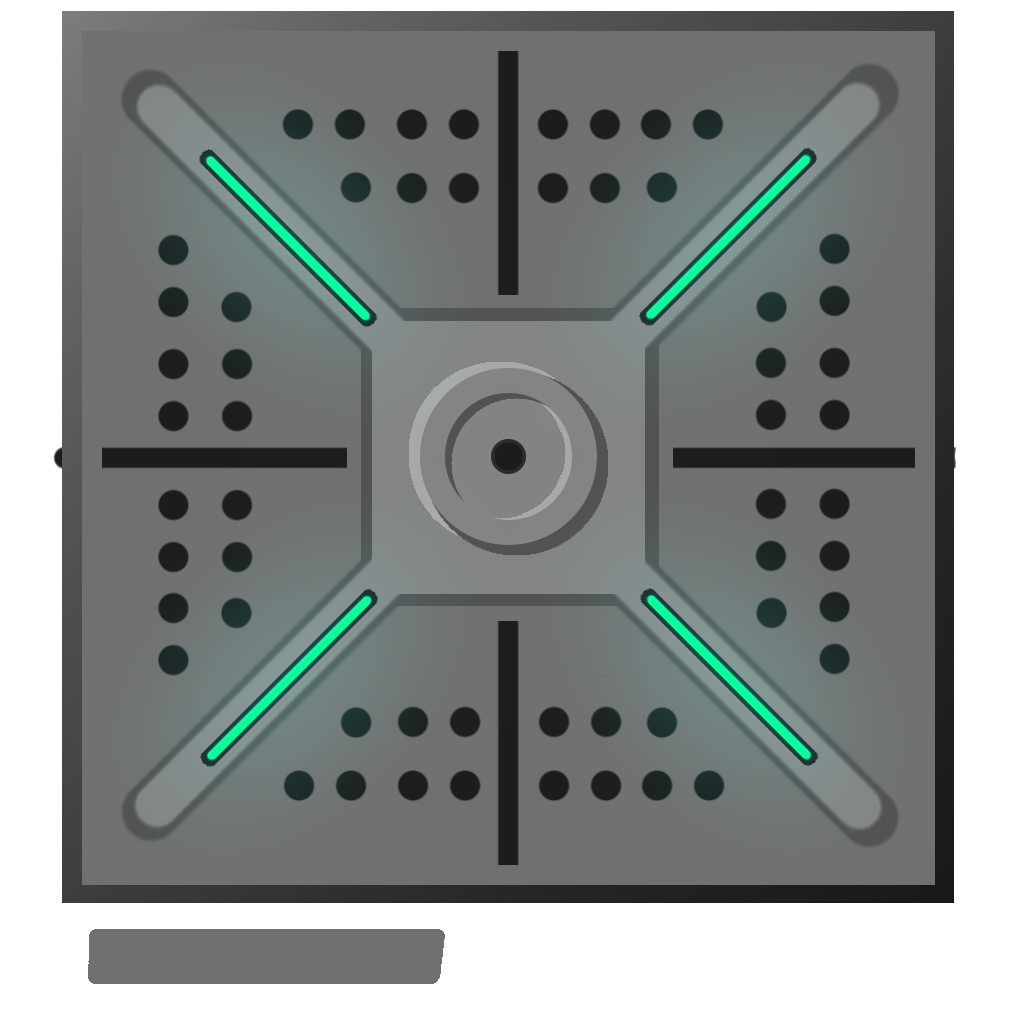
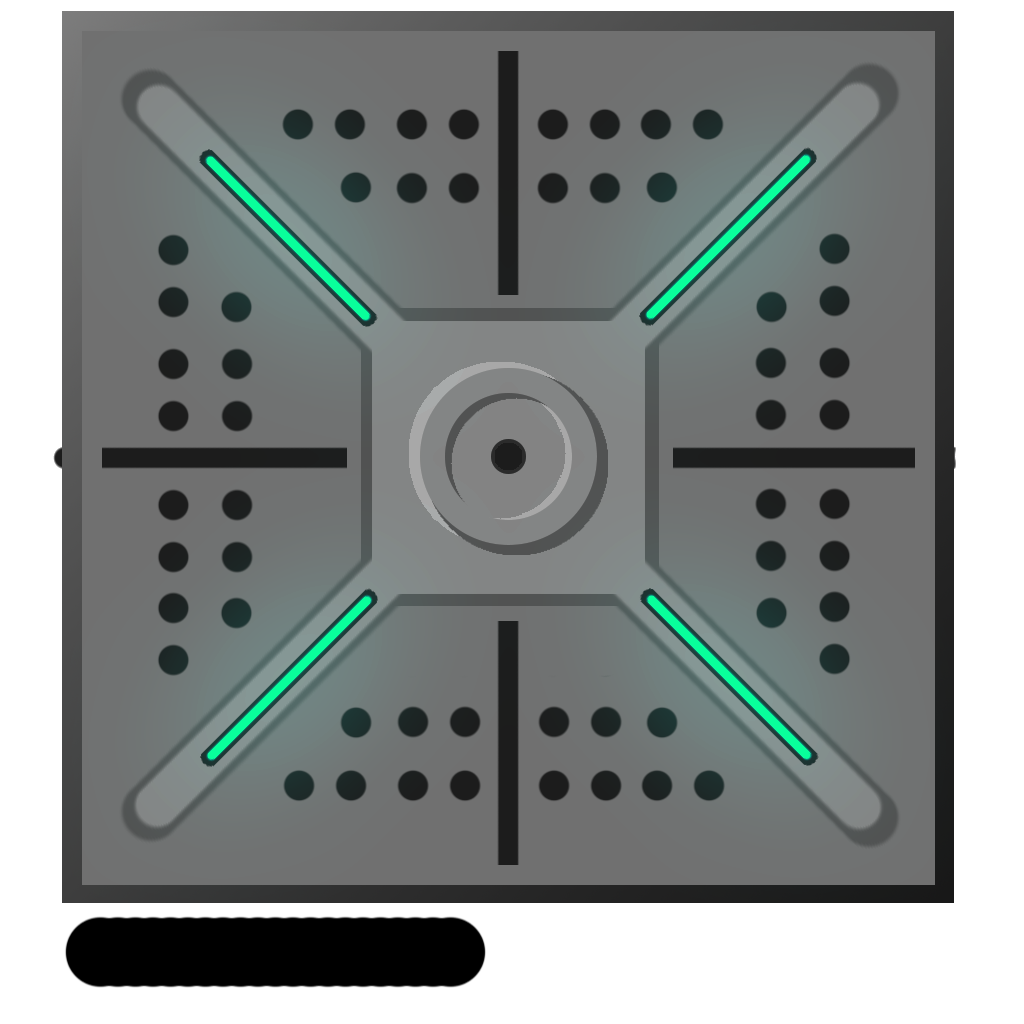
ゴールの内側の色を、ステージ中とステージセレクトで違うようにした

Changed region(s): [[0.0625, 0.875, 0.5, 0.9688]]

diff --git a/MassShift/Assets/Scripts/Saito/Goal.cs b/MassShift/Assets/Scripts/Saito/Goal.cs
@@ -23,6 +23,14 @@ public class Goal : MonoBehaviour {
 		TurnLamp();
 
 		mAllPlayerList = FindObjectsOfType<Player>().ToList();
+
+		//ステージ中なら
+		if(Area.IsInStage()) {
+			Utility.ChangeMaterialColor(mModel, mInsideMaterial, "_EmissionColor", Color.white);
+		}
+		else {
+			Utility.ChangeMaterialColor(mModel, mInsideMaterial, "_EmissionColor", Color.black);
+		}
 	}
 	
 	// Update is called once per frame
@@ -382,4 +390,7 @@ public class Goal : MonoBehaviour {
 
 	[SerializeField, EditOnPrefab, Tooltip("オフの時のライトのエミッションの強さ")]
 	float mLampOffEmissionPower = 1.0f;
+
+	[SerializeField, EditOnPrefab, Tooltip("扉の内側のマテリアル")]
+	Material mInsideMaterial;
 }

diff --git a/MassShift/Assets/Scripts/Saito/Area.cs b/MassShift/Assets/Scripts/Saito/Area.cs
@@ -212,6 +212,19 @@ public class Area {
 	}
 
 
+	//そのシーンがステージ中か
+	//
+	public static bool IsInStage() {
+
+		int lAreaNum = GetAreaNumber();
+		if (0 <= lAreaNum && lAreaNum <= GetAreaCount()) {
+			return true;
+		}
+
+		return false;
+	}
+
+
 	//１・２・３のエリア番号を、配列のインデックスに対応させる
 	//
 	static int GetAreaIndex(int aAreaNumber) {
